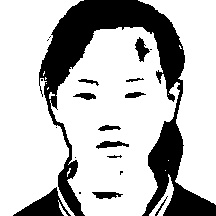
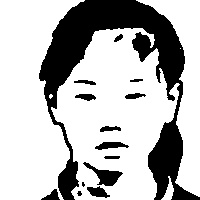
17.10.18 17:26

Changed region(s): [[0.06, 0.0, 1.0, 1.0], [0.57, 0.36, 0.72, 0.51], [0.51, 0.78, 0.6, 0.81]]

diff --git a/faceFeature/partitionMethod.py b/faceFeature/partitionMethod.py
@@ -418,7 +418,7 @@ def myThreshold(imgGray,imgSkin,skinPoint,thresh):
 
 def divisionThreshold(imgSKIN,imgFace):
     useless,theta = meanBrightness(imgSKIN=imgSKIN, imgGRAY=imgFace)
-    divisionCount = 20
+    divisionCount = 25
     #初始化数组大小
     imgSegment = [None] * divisionCount
     imgSkinSegment = [None] * divisionCount
@@ -437,9 +437,10 @@ def divisionThreshold(imgSKIN,imgFace):
             imgSkinSegment[i][j] = imgSKIN[i*new_h:(i+1)*new_h,j*new_w:(j+1)*new_w]
             skinPoint,alpha = meanBrightness(imgSKIN=imgSkinSegment[i][j],imgGRAY=imgSegment[i][j])
             if alpha !=0:
-                thresh = min(alpha,theta)
-                #imgSegment[i][j] = myThreshold(imgSegment[i][j],imgSkinSegment[i][j],skinPoint,0.71*thresh)
-                imgSegment[i][j] = myThreshold(imgSegment[i][j],imgSkinSegment[i][j],skinPoint,0.71*(0.855*alpha+0.145*theta))
+                min_th = min(alpha,theta)
+                max_th = max(alpha,theta)
+                #imgSegment[i][j] = myThreshold(imgSegment[i][j],imgSkinSegment[i][j],skinPoint,0.71*thresh) gamma = 0.63 lamda = 0.855 bata = 0.145
+                imgSegment[i][j] = myThreshold(imgSegment[i][j],imgSkinSegment[i][j],skinPoint,gamma*(lamda*max_th+bata*min_th))
     for i in range(divisionCount):
         for j in range(divisionCount):
             dst[i*new_h:(i+1)*new_h,j*new_w:(j+1)*new_w]=imgSegment[i][j]
@@ -455,6 +456,9 @@ def processImg(img):
 
     #眼睛和人脸检测
     faces,eyes = detectEyes(img)
+    if len(faces)<1:
+        print("cannot detect the face")
+        exit(0)
     temp = img.copy()
     mask = np.zeros((img.shape[0] + 2, img.shape[1] + 2), np.uint8)
 
@@ -489,19 +493,28 @@ def createResult():
     while i <= 22:
         print(i)
         img = cv2.imread("img/" + str(i) + ".jpg", 1)
+        img = cv2.medianBlur(img, 3)
         dst = processImg(img)
+        dst = cv2.medianBlur(dst, 3)
+        dst = RemoveSmallRegion(dst, 10, 0, 1)
+        dst = delete_jut(dst, 1, 1, 1)
+        dst = delete_jut(dst, 1, 1, 0)
         cv2.imwrite("result/" + str(i) + ".jpg", dst)
         i = i + 1
 
 def unitTest():
-    img = cv2.imread("img/5.jpg",1)
+    img = cv2.imread("img/14.jpg",1)
     img = cv2.medianBlur(img,3)
     dst = processImg(img)
+    dst = cv2.medianBlur(dst,3)
     dst = RemoveSmallRegion(dst,10,0,1)
     dst = delete_jut(dst,1,1,1)
     dst = delete_jut(dst,1,1,0)
     cv2.imshow("result",dst)
 if __name__ == '__main__':
-    unitTest()
+    gamma = 0.652
+    lamda = 0.8250
+    bata = 0.1750
+    createResult()
     cv2.waitKey(0)
 
